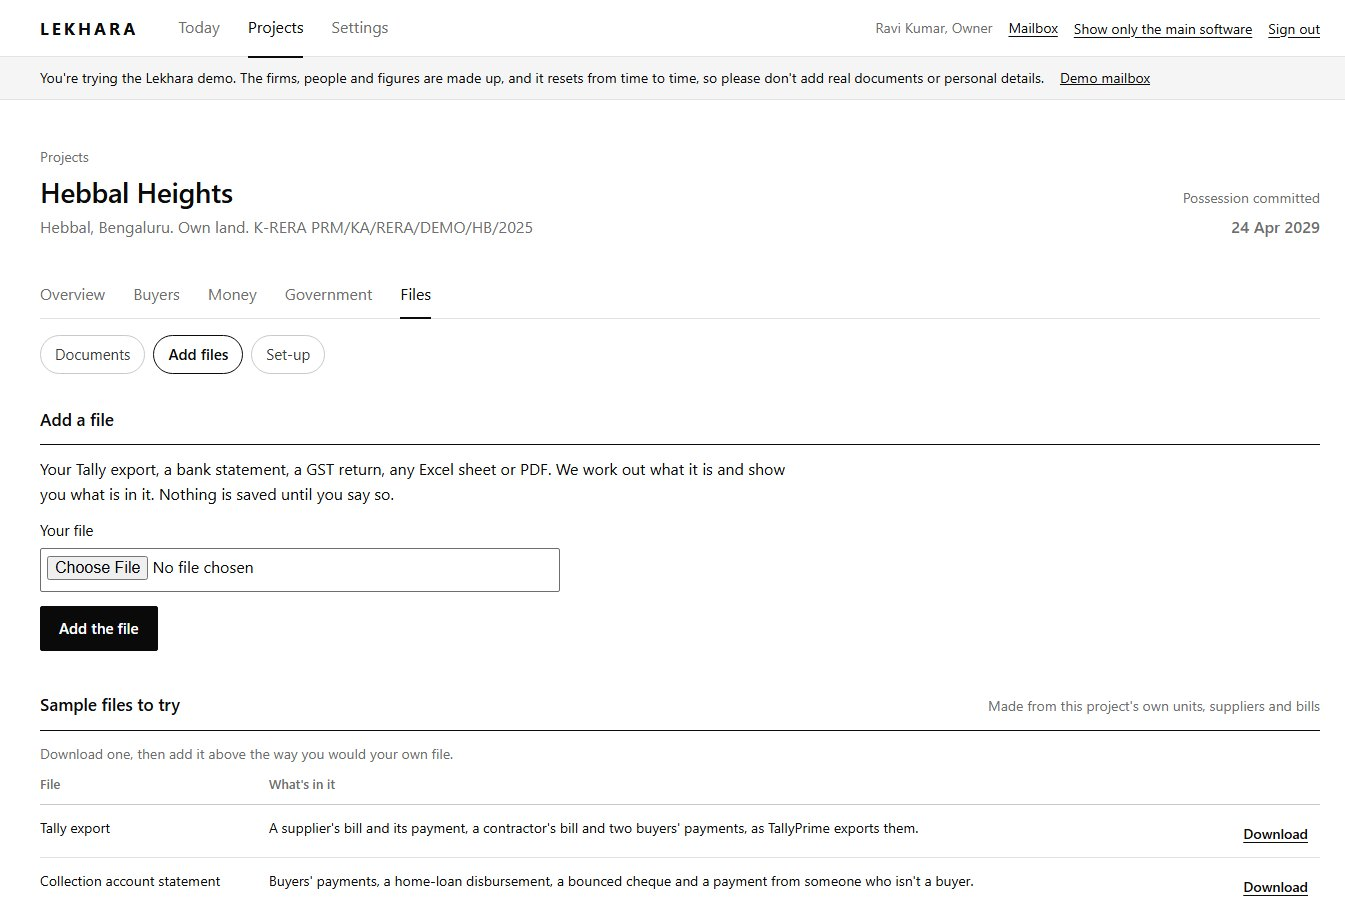
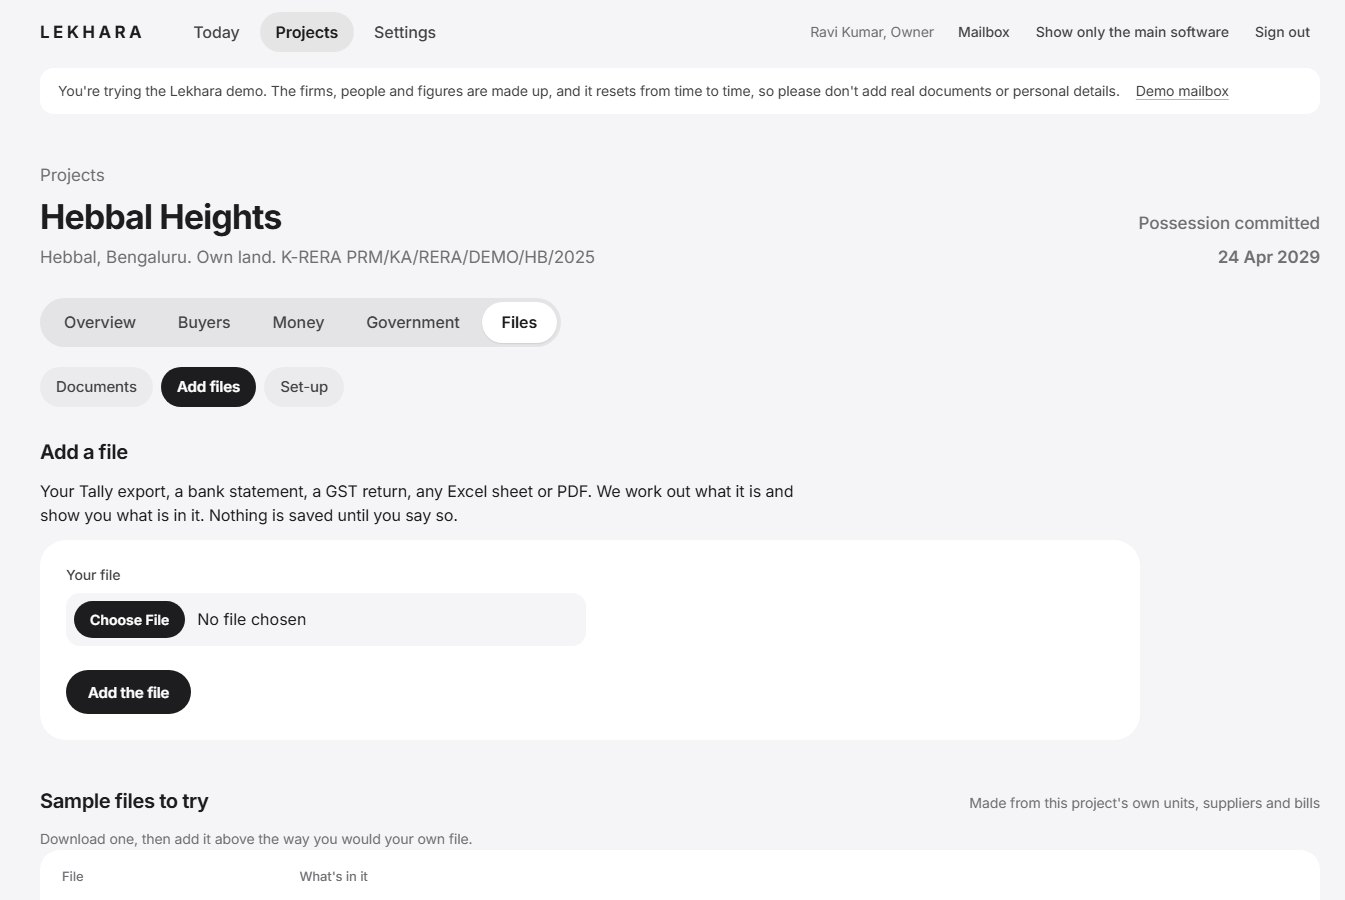
The launch video in the new look
The README's looping preview, its screenshots and the hosted video now
show the reworked screens: the list of what to do today, the RERA
account with its certificates, and one box for every file. The facts in
the first half are the same checked ones.

diff --git a/status.md b/status.md
@@ -1,6 +1,6 @@
 # Lekhara status
 
-Last updated: 2026-11-06, with the commit "A cleaner look with no lines, and the last screens made simple".
+Last updated: 2026-11-06, with the commit "The launch video in the new look".
 
 ## What we are building
 
@@ -394,9 +394,10 @@ Launch market: Bengaluru, then the rest of Karnataka, then other states. The pla
   - The website and README say what Lekhara does, which anyone can check, in place of how easy it will feel, which no office has tested yet.
 - The demo's nightly reset was run on the live site for the first time, by hand: it rebuilt the demo on its shared database, and the Sales walk-through passes there (42 checks).
 
+- The launch video, remade (52 seconds, both formats): the same checked facts about the RERA account, K-RERA and late handover, then the new screens in the new look: the list of what to do today, the RERA account with its certificates, and one box for every file. In Inter, with no lines. It replaces the old video in the README's looping preview and at the hosted link.
+
 ## In progress
 
-- The launch video, remade for the new look and the easy-to-use message.
 - Still to do with a real builder's office: watching someone who has never used a tool like this get through their first day alone. Until then, "easy" is the aim, not a tested fact.
 
 ## Next: the expanded software

diff --git a/README.md b/README.md
@@ -10,7 +10,7 @@ Free for a month. Nothing to install. Starting in Bengaluru.
 [**Try the demo**](https://lekhara-demo.vercel.app) · [**Watch the video**](https://cdn.jsdelivr.net/gh/tfthushaar/lekhara@site/lekhara.mp4) · [What works today](#what-works-today) · [Pricing](#pricing)
 
 <a href="https://cdn.jsdelivr.net/gh/tfthushaar/lekhara@site/lekhara.mp4">
-  <img src="media/lekhara-preview.gif" alt="Lekhara in under a minute: 70 of every 100 rupees buyers pay goes into the RERA account, fines for late K-RERA updates, interest to buyers for late handover, and how Lekhara keeps track of it. Click to watch the video." width="100%">
+  <img src="media/lekhara-preview.gif" alt="Lekhara in under a minute: what a builder owes K-RERA, the RERA account and buyers, then the list of what to do today, how much can be drawn from the RERA account, and one box for every file. Click to watch the video." width="100%">
 </a>
 
 <sub><a href="https://cdn.jsdelivr.net/gh/tfthushaar/lekhara@site/lekhara.mp4">Watch it as a video</a>, 52 seconds</sub>
